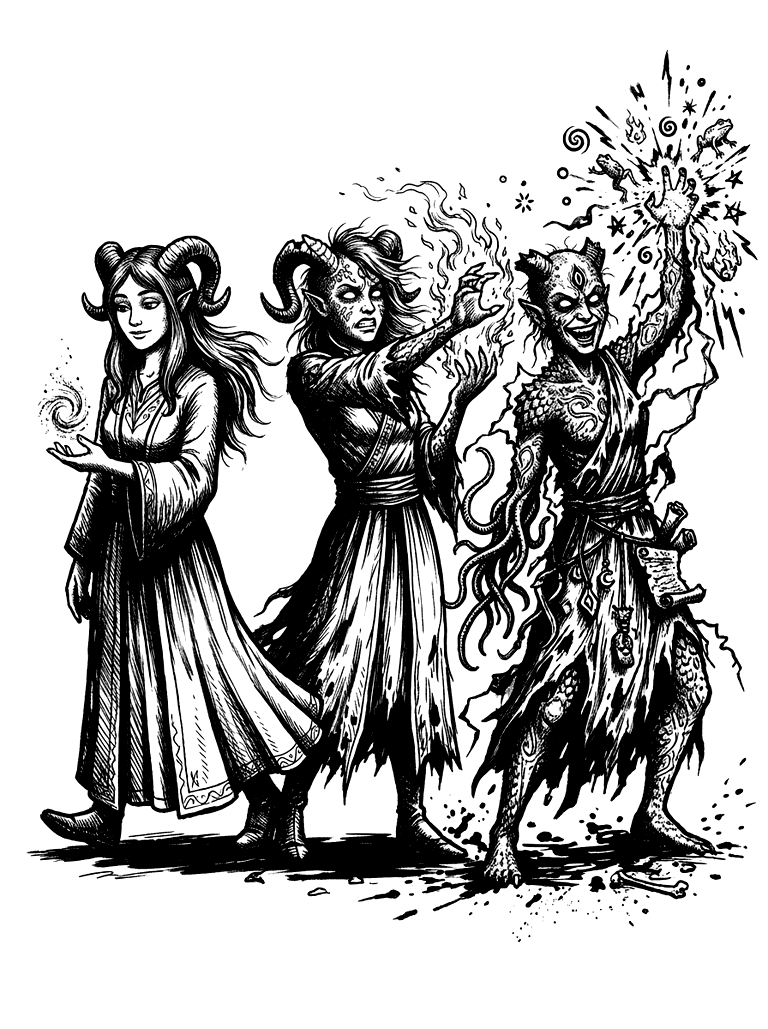
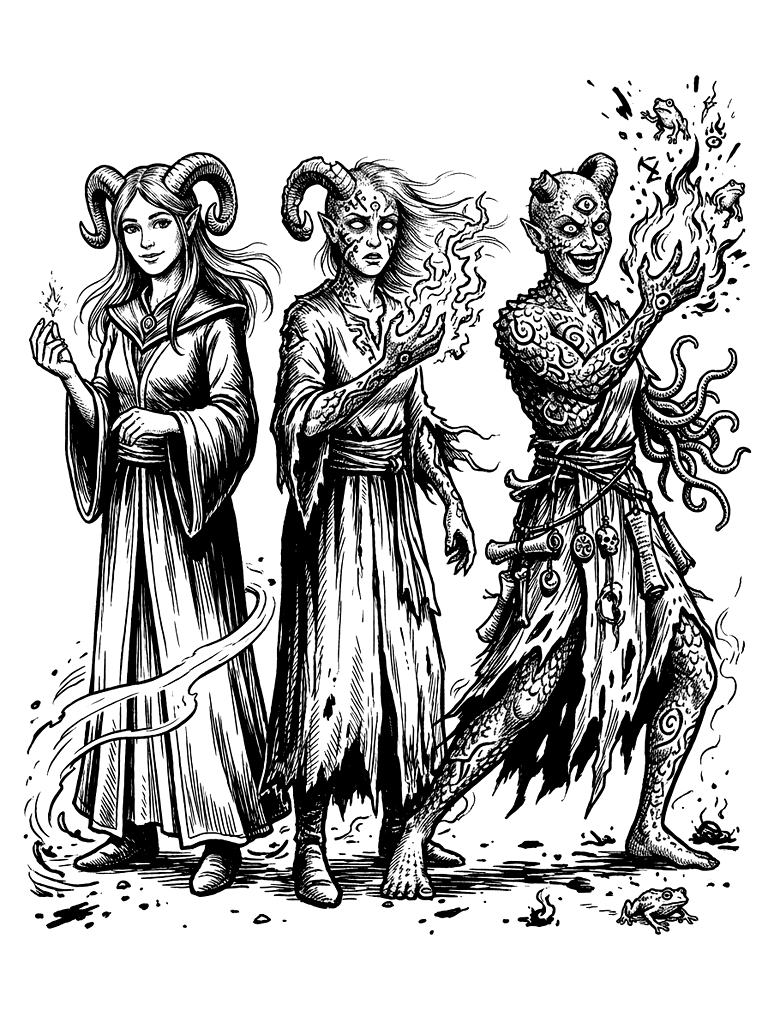
Arcanista Selvagem: nova arte, com mais tinta

diff --git a/docs/classes/arcanista-selvagem.md b/docs/classes/arcanista-selvagem.md
@@ -3,7 +3,7 @@
 Magos que não estudaram a magia: agarraram-na pelo pescoço. Cada magia é uma aposta que pode sair fraca, sair lendária ou explodir na cara. E cada aposta perdida deixa uma marca: o cabelo cai, a pele azula, a sombra começa a andar sozinha.
 { .epigrafe }
 
-![A mesma tiefling três vezes, da esquerda para a direita: inteira e encantada com a magia, depois marcada por escamas e lutando com o fogo, depois quase desfeita, com terceiro olho e tentáculos, rindo no meio de uma explosão](../assets/images/classes/arcanista-selvagem.webp){ .fj-arte .fj-arte-classe loading=lazy }
+![A mesma tiefling três vezes, da esquerda para a direita: inteira e sorrindo com uma faísca na mão, depois com escamas no braço e um sigilo na testa, depois quase desfeita, com terceiro olho, tentáculos e fogo saindo do braço, rindo entre sapos e faíscas](../assets/images/classes/arcanista-selvagem.webp){ .fj-arte .fj-arte-classe loading=lazy }
 
 **Classe exótica.** Fica fora do Personagem Aleatório. Combine com o Mestre antes de escolher (veja Classes exóticas).
 
